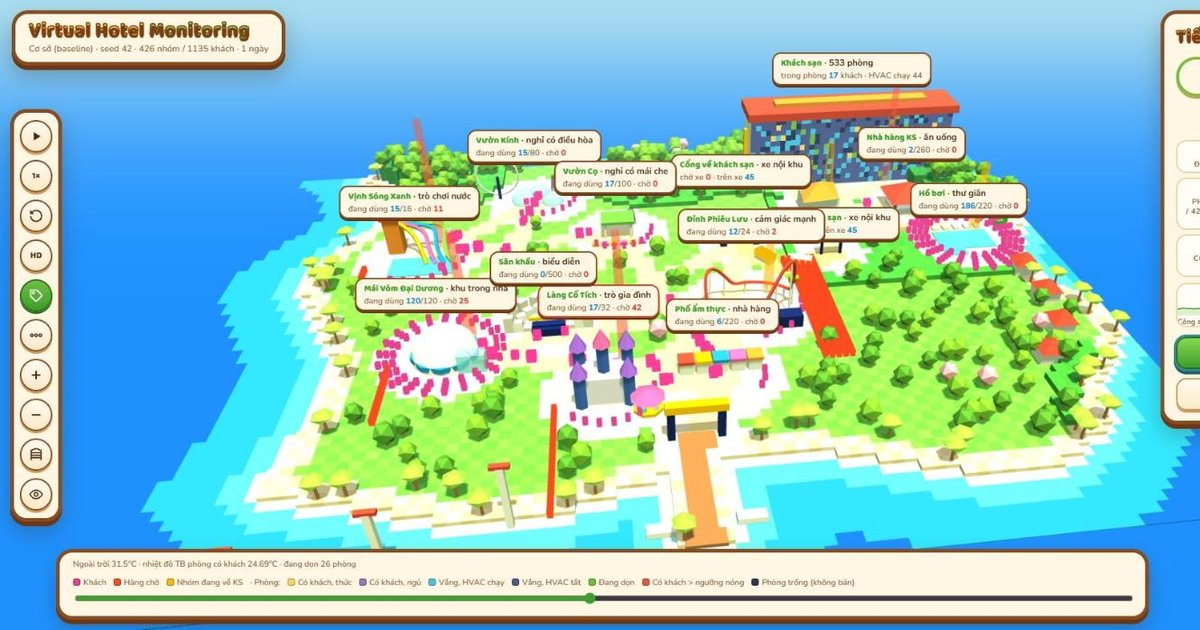
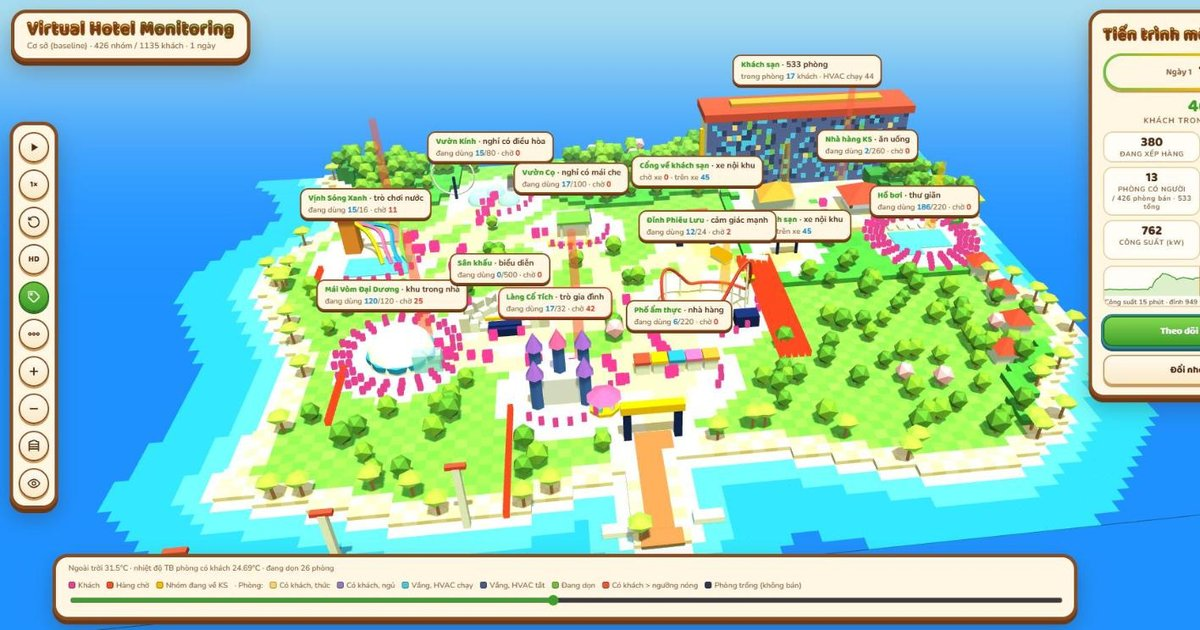
Hide run seed in page headers; refresh preview image

diff --git a/web/dashboard.html b/web/dashboard.html
@@ -329,7 +329,7 @@ window.addEventListener('hashchange', () => { const h = location.hash.slice(1); 
 // ------------------------------------------------------------------ header + KPIs
 function renderHeader(D, B) {
   const k = D.kpi, b = B.kpi;
-  $('sub').textContent = `${D.meta.label} · seed ${D.meta.seed} · ${k.rooms} phòng · ${k.occupied_rooms} phòng có khách · ${k.guest_groups} nhóm · ${nf(k.guests)} khách`;
+  $('sub').textContent = `${D.meta.label} · ${k.rooms} phòng · ${k.occupied_rooms} phòng có khách · ${k.guest_groups} nhóm · ${nf(k.guests)} khách`;
   const T = [['total_kwh', 'Tổng điện', 'kWh', 0], ['peak_15min_kw', 'Đỉnh 15 phút', 'kW', 0], ['emissions_kgco2e', 'Phát thải', 'kg CO2e', 0],
     ['hotel_kwh_per_occupied_room_night', 'Điện KS / đêm phòng', 'kWh', 1], ['park_entries', 'Lượt vào công viên', 'nhóm', 0],
     ['attraction_mean_wait_min', 'Chờ TB trò chơi', 'phút', 1], ['occupied_room_hours_above_comfort', 'Giờ-phòng quá nóng', 'giờ', 1]];

diff --git a/web/resort3d_template.html b/web/resort3d_template.html
@@ -625,7 +625,7 @@ function tweenStats(target) {
 }
 document.getElementById('sOccOf').textContent = `/ ${D.meta.occupied} phòng bán · ${D.meta.rooms} tổng`;
 document.getElementById('subtitle').textContent =
-  `${D.meta.scenario} · seed ${D.meta.seed} · ${D.meta.groups} nhóm / ${D.meta.guests} khách · ${D.meta.days} ngày`;
+  `${D.meta.scenario} · ${D.meta.groups} nhóm / ${D.meta.guests} khách · ${D.meta.days} ngày`;
 if (D.nav) {                                     // static-site build: scenario switcher + comparison link
   const nav = document.getElementById('nav'); nav.style.display = 'flex';
   const sel = document.createElement('select'); sel.setAttribute('aria-label', 'Kịch bản');

diff --git a/app.py b/app.py
@@ -104,7 +104,7 @@ c[3].metric("Điện KS / đêm phòng", f"{S['hotel_kwh_per_occupied_room_night
 c[4].metric("Lượt vào công viên (nhóm)", S["park_entries"])
 c[5].metric("Chờ TB trò chơi (phút)", f"{S['attraction_mean_wait_min']:.1f}")
 c[6].metric("Thời gian chạy (s)", f"{sim.runtime_s:.2f}")
-st.caption(f"Kịch bản: **{label}** · seed {cfg['seed']} · {S['rooms']} phòng · {S['occupied_rooms']} phòng có khách · "
+st.caption(f"Kịch bản: **{label}** · {S['rooms']} phòng · {S['occupied_rooms']} phòng có khách · "
            f"{S['guest_groups']} nhóm · {S['guests']} khách · ranh giới: điện mua từ lưới, "
            f"{'có' if S['transport_energy_included'] else 'KHÔNG'} gồm điện phương tiện kết nối.")
 
